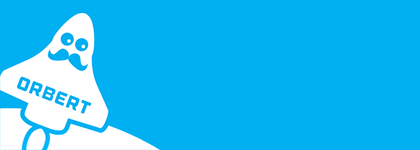
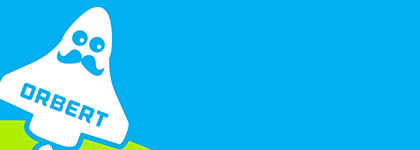
Platforms display app store badges when applicable. Updated Orbert marketing images.

Changed region(s): [[0.0, 0.0267, 0.4024, 1.0]]

diff --git a/_site/products/Orbert/index.html b/_site/products/Orbert/index.html
@@ -170,19 +170,44 @@ Featuring flippin' fun physics, loads of levels (from "piece of cake" to "piece 
                 <strong>Release Date:</strong> April 1, 2014
             </p>
             
-            
-            <p class="product-info">
-                <strong>Platforms:</strong>
-                
-                    <a href="https://play.google.com/store/apps/details?id=com.RebelHippo.Orbert">Google Play,</a>
-                
-                    <a href="https://appworld.blackberry.com/webstore/content/50003906/?lang=en">Blackberry</a>
-                
-            </p>
-            
             <p class="product-info">
                 <strong>Website:</strong> <a href="http://www.playorbert.com">http://www.playorbert.com</a>
             </p>
+            
+            <p class="product-info">
+                
+
+                
+                    
+
+                    
+                        
+                        <a href="https://play.google.com/store/apps/details?id=com.RebelHippo.Orbert">
+                            <img class="platform-badge hvr-grow" src="/img/badges/GooglePlay.png" />
+                        </a>
+                        
+                    
+                        
+                    
+
+                    
+                
+                    
+
+                    
+                        
+                    
+                        
+                        <a href="https://itunes.apple.com/us/app/orbert/id845310880?ls=1&mt=8">
+                            <img class="platform-badge hvr-grow" src="/img/badges/iOS.svg" />
+                        </a>
+                        
+                    
+
+                    
+                
+            </p>
+            
         </div>
     </div>
 </div>
@@ -241,7 +266,7 @@ Featuring flippin' fun physics, loads of levels (from "piece of cake" to "piece 
           <footer>
               <hr />
               <img src="/img/footer.png" />
-              <p>Copyright &copy; <time datetime="2016-04-05T15:13:06-04:00">2016</time> Rebel Hippo Inc. All rights reserved.</p>
+              <p>Copyright &copy; <time datetime="2016-09-26T12:07:21-04:00">2016</time> Rebel Hippo Inc. All rights reserved.</p>
           </footer>
       </div>
       <script>

diff --git a/_layouts/product.html b/_layouts/product.html
@@ -50,17 +50,32 @@ layout: page
                 <strong>Release Date:</strong> {{ page.release }}
             </p>
             {% endif %}
-            {% if page.platforms %}
-            <p class="product-info">
-                <strong>Platforms:</strong>
-                {% for platform in page.platforms %}
-                    <a href="{{ platform[1] }}">{{ platform[0] }}</a>
-                {% endfor %}
-            </p>
-            {% endif %}
             <p class="product-info{% if page.website == null %} hidden{% endif %}">
                 <strong>Website:</strong> <a href="{{ page.website }}">{{ page.website }}</a>
             </p>
+            {% if page.platforms %}
+            <p class="product-info">
+                {% if page.badges == null %}
+                <strong>Platforms:</strong>
+                {% endif %}
+
+                {% for platform in page.platforms %}
+                    {% if page.badges %}
+
+                    {% for badge in page.badges %}
+                        {% if badge[0] == platform[0] %}
+                        <a href="{{ platform[1] }}">
+                            <img class="platform-badge hvr-grow" src="/img/badges/{{ badge[1] }}" />
+                        </a>
+                        {% endif %}
+                    {% endfor %}
+
+                    {% else %}
+                    <a href="{{ platform[1] }}">{{ platform[0] }}</a>
+                    {% endif %}
+                {% endfor %}
+            </p>
+            {% endif %}
         </div>
     </div>
 </div>

diff --git a/_site/products/Lumos/index.html b/_site/products/Lumos/index.html
@@ -167,17 +167,22 @@ Studios can make informed decisions about what platforms to target, where to foc
                 <strong>Release Date:</strong> July 1, 2011
             </p>
             
-            
-            <p class="product-info">
-                <strong>Platforms:</strong>
-                
-                    <a href="https://www.lumospowered.com">Web</a>
-                
-            </p>
-            
             <p class="product-info">
                 <strong>Website:</strong> <a href="https://www.lumospowered.com">https://www.lumospowered.com</a>
             </p>
+            
+            <p class="product-info">
+                
+                <strong>Platforms:</strong>
+                
+
+                
+                    
+                    <a href="https://www.lumospowered.com">Web</a>
+                    
+                
+            </p>
+            
         </div>
     </div>
 </div>
@@ -236,7 +241,7 @@ Studios can make informed decisions about what platforms to target, where to foc
           <footer>
               <hr />
               <img src="/img/footer.png" />
-              <p>Copyright &copy; <time datetime="2016-04-05T15:13:06-04:00">2016</time> Rebel Hippo Inc. All rights reserved.</p>
+              <p>Copyright &copy; <time datetime="2016-09-26T12:07:21-04:00">2016</time> Rebel Hippo Inc. All rights reserved.</p>
           </footer>
       </div>
       <script>

diff --git a/products/orbert.html b/products/orbert.html
@@ -10,11 +10,14 @@ slides:
   - 4.png
   - 5.png
 platforms:
-  "Google Play,": "https://play.google.com/store/apps/details?id=com.RebelHippo.Orbert"
-  "Blackberry": "https://appworld.blackberry.com/webstore/content/50003906/?lang=en"
+  "Google Play": "https://play.google.com/store/apps/details?id=com.RebelHippo.Orbert"
+  "iOS": "https://itunes.apple.com/us/app/orbert/id845310880?ls=1&mt=8"
 release: "April 1, 2014"
 website: "http://www.playorbert.com"
 video: "https://www.youtube.com/embed/H8DMQPQ2hzU"
+badges:
+  "Google Play": "GooglePlay.png"
+  "iOS": "iOS.svg"
 ---
 
 Swing Orbert around moons and avoid the dreaded White Walls of Devastation.

diff --git a/_site/about/index.html b/_site/about/index.html
@@ -119,7 +119,7 @@
           <footer>
               <hr />
               <img src="/img/footer.png" />
-              <p>Copyright &copy; <time datetime="2016-04-05T15:13:06-04:00">2016</time> Rebel Hippo Inc. All rights reserved.</p>
+              <p>Copyright &copy; <time datetime="2016-09-26T12:07:21-04:00">2016</time> Rebel Hippo Inc. All rights reserved.</p>
           </footer>
       </div>
       <script>

diff --git a/_site/contact/index.html b/_site/contact/index.html
@@ -167,7 +167,7 @@
           <footer>
               <hr />
               <img src="/img/footer.png" />
-              <p>Copyright &copy; <time datetime="2016-04-05T15:13:06-04:00">2016</time> Rebel Hippo Inc. All rights reserved.</p>
+              <p>Copyright &copy; <time datetime="2016-09-26T12:07:21-04:00">2016</time> Rebel Hippo Inc. All rights reserved.</p>
           </footer>
       </div>
       <script>

diff --git a/_site/404.html b/_site/404.html
@@ -87,7 +87,7 @@
           <footer>
               <hr />
               <img src="/img/footer.png" />
-              <p>Copyright &copy; <time datetime="2016-04-05T15:13:06-04:00">2016</time> Rebel Hippo Inc. All rights reserved.</p>
+              <p>Copyright &copy; <time datetime="2016-09-26T12:07:21-04:00">2016</time> Rebel Hippo Inc. All rights reserved.</p>
           </footer>
       </div>
       <script>

diff --git a/_site/index.html b/_site/index.html
@@ -83,7 +83,7 @@
           <footer>
               <hr />
               <img src="/img/footer.png" />
-              <p>Copyright &copy; <time datetime="2016-04-05T15:13:06-04:00">2016</time> Rebel Hippo Inc. All rights reserved.</p>
+              <p>Copyright &copy; <time datetime="2016-09-26T12:07:21-04:00">2016</time> Rebel Hippo Inc. All rights reserved.</p>
           </footer>
       </div>
       <script>

diff --git a/_site/thanks/index.html b/_site/thanks/index.html
@@ -89,7 +89,7 @@
           <footer>
               <hr />
               <img src="/img/footer.png" />
-              <p>Copyright &copy; <time datetime="2016-04-05T15:13:06-04:00">2016</time> Rebel Hippo Inc. All rights reserved.</p>
+              <p>Copyright &copy; <time datetime="2016-09-26T12:07:21-04:00">2016</time> Rebel Hippo Inc. All rights reserved.</p>
           </footer>
       </div>
       <script>

diff --git a/_site/css/style.css b/_site/css/style.css
@@ -115,11 +115,11 @@ nav {
 
 main {
     position: relative;
-    overflow: hidden;
     margin-top: 25px;
     margin-bottom: 15px;
     padding: 0px 25px;
     min-height: 850px;
+    overflow: hidden;
 }
 
 main > img {
@@ -443,6 +443,10 @@ footer hr {
 .btn-sharp:hover {
     color: white;
     background-color: black;
+}
+
+.platform-badge {
+    width: 175px;
 }
 
 /* mobile scaling */

diff --git a/css/style.css b/css/style.css
@@ -115,11 +115,11 @@ nav {
 
 main {
     position: relative;
-    overflow: hidden;
     margin-top: 25px;
     margin-bottom: 15px;
     padding: 0px 25px;
     min-height: 850px;
+    overflow: hidden;
 }
 
 main > img {
@@ -443,6 +443,10 @@ footer hr {
 .btn-sharp:hover {
     color: white;
     background-color: black;
+}
+
+.platform-badge {
+    width: 175px;
 }
 
 /* mobile scaling */
